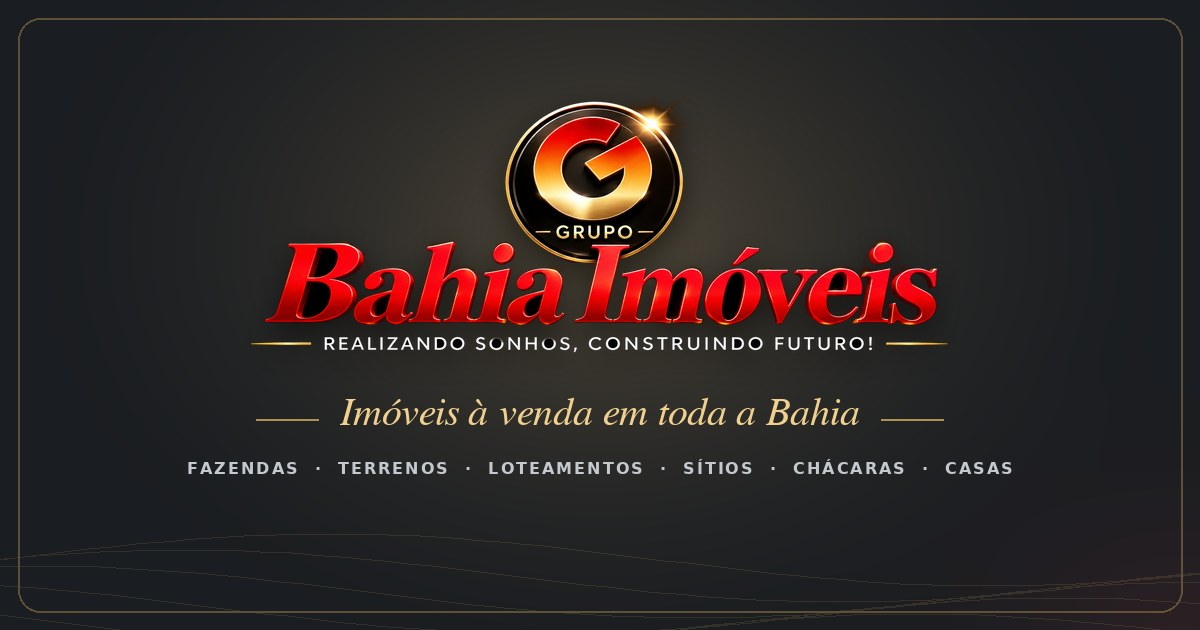
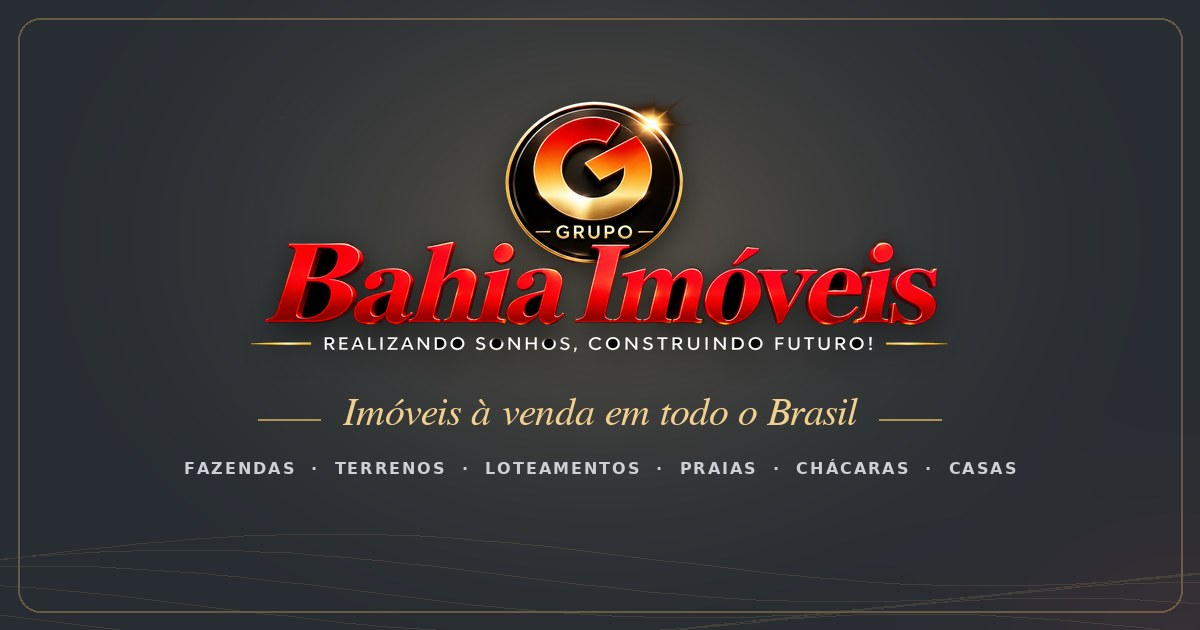
Atuação em todo o Brasil e vídeo de fundo com transições na página inicial
Claude-Session: https://claude.ai/code/session_01B3kjpeu8QtiMqWAzueqwdR

diff --git a/site.js b/site.js
@@ -11,7 +11,7 @@ const CATEGORIAS = [
   {nome:'Loteamento', ico:'lote',    txt:'Lotes em loteamentos com potencial de valorização.'},
   {nome:'Sítio',      ico:'sitio',   txt:'Natureza, tranquilidade e espaço para produzir.'},
   {nome:'Chácara',    ico:'chacara', txt:'Lazer e descanso perto da cidade.'},
-  {nome:'Casa',       ico:'casa',    txt:'Casas para morar ou investir em toda a Bahia.'}
+  {nome:'Casa',       ico:'casa',    txt:'Casas para morar ou investir em todo o Brasil.'}
 ];
 
 /* ===== CATÁLOGO =====
@@ -640,9 +640,62 @@ function montarContato(){
   });
 }
 
+
+/* ===== VÍDEO DE FUNDO DA CAPA (clipes em sequência com transição) ===== */
+function iniciarVideoCapa(){
+  const hero = $('.hero-v'), box = $('.hvid'); if (!box) return;
+  const lista = (CONFIG.capa || []).filter(c => c && c.src); if (!lista.length) return;
+  const reduz = matchMedia('(prefers-reduced-motion: reduce)').matches;
+  const economia = navigator.connection && (navigator.connection.saveData || /2g/.test(navigator.connection.effectiveType || ''));
+  if (reduz || economia) return;
+  const vids = [...box.querySelectorAll('video')];
+  const seg = Math.max(4, +CONFIG.segundosPorClipe || 7) * 1000;
+  const qual = innerWidth < 720 ? '360' : '720';
+  const url = (c, q) => c.src.replace('{q}', q || qual);
+  const ui = $('.hvid-tema b'), dots = $('.hvid-dots');
+  dots.innerHTML = lista.map((c, k) => `<button type="button" aria-label="${esc(c.tema || 'Clipe ' + (k + 1))}" data-k="${k}"><i></i></button>`).join('');
+  let atual = 0, camada = 0, timer = null, falhas = 0, visivel = true, rodando = false;
+  const marcar = k => {
+    if (ui) ui.textContent = lista[k].tema || '';
+    dots.querySelectorAll('button').forEach((b, j) => { b.classList.toggle('on', j === k); b.style.setProperty('--t', seg + 'ms'); });
+  };
+  function carregar(v, k, cb){
+    let tentouBaixa = false;
+    v.onerror = () => {
+      if (!tentouBaixa && qual !== '360' && lista[k].src.includes('{q}')){ tentouBaixa = true; v.src = url(lista[k], '360'); v.load(); return; }
+      falhas++; if (falhas >= lista.length * 2) return parar(); cb(false);
+    };
+    v.oncanplay = () => { v.oncanplay = null; cb(true); };
+    v.src = url(lista[k]); v.load();
+  }
+  function mostrar(k){
+    const v = vids[camada], ant = vids[1 - camada];
+    carregar(v, k, ok => {
+      if (!ok){ atual = (k + 1) % lista.length; return mostrar(atual); }
+      falhas = 0;
+      v.currentTime = 0; const pr = v.play(); if (pr) pr.catch(() => {});
+      v.classList.add('on'); ant.classList.remove('on'); hero.classList.add('vid-on');
+      setTimeout(() => { ant.pause(); }, 1600);
+      marcar(k); atual = k;
+      clearTimeout(timer); timer = setTimeout(proximo, seg);
+    });
+  }
+  function proximo(){ if (!visivel) return; camada = 1 - camada; mostrar((atual + 1) % lista.length); }
+  function parar(){ clearTimeout(timer); vids.forEach(v => { v.pause(); v.removeAttribute('src'); v.load(); }); hero.classList.remove('vid-on'); $('.hvid-ui').hidden = true; }
+  dots.addEventListener('click', e => { const b = e.target.closest('[data-k]'); if (!b) return; clearTimeout(timer); camada = 1 - camada; mostrar(+b.dataset.k); });
+  vids.forEach(v => { v.muted = true; v.loop = true; v.setAttribute('muted', ''); });
+  const retomar = () => { if (!visivel || document.hidden) { clearTimeout(timer); vids.forEach(v => v.pause()); return; }
+    if (!rodando){ rodando = true; return mostrar(0); }
+    const v = vids[camada]; const pr = v.play(); if (pr) pr.catch(() => {}); clearTimeout(timer); timer = setTimeout(proximo, seg); };
+  if ('IntersectionObserver' in window) new IntersectionObserver(es => { visivel = es[0].isIntersecting; retomar(); }, {threshold: .05}).observe(hero);
+  else retomar();
+  document.addEventListener('visibilitychange', retomar);
+}
+
 /* ===== GERAL ===== */
 function iniciar(){
   montarChat(); montarCategorias(); montarBusca(); montarContato();
+  iniciarVideoCapa();
 
   // Cadeado: carrega o painel administrativo só quando for usado
   document.addEventListener('click', e => {
@@ -716,11 +769,11 @@ const I18N = (() => {
     ['Início', 'Home', 'Inicio'], ['Imóveis', 'Properties', 'Inmuebles'], ['Categorias', 'Categories', 'Categorías'],
     ['Como funciona', 'How it works', 'Cómo funciona'], ['A empresa', 'About us', 'La empresa'], ['Dúvidas', 'FAQ', 'Preguntas'],
     ['Contato', 'Contact', 'Contacto'], ['Fale conosco', 'Contact us', 'Contáctenos'],
-    ['Imóveis em toda a Bahia', 'Properties all over Bahia', 'Inmuebles en todo Bahía'],
+    ['Imóveis em todo o Brasil', 'Properties all over Brazil', 'Inmuebles en todo Brasil'],
     ['Realizando sonhos,', 'Making dreams come true,', 'Realizando sueños,'], ['construindo futuro!', 'building the future!', '¡construyendo futuro!'],
     ['Terrenos, loteamentos, fazendas, sítios, chácaras e casas. Encontre o imóvel ideal e fale direto com a nossa equipe.', 'Land, lots, farms, small farms, country houses and homes. Find the ideal property and talk directly to our team.', 'Terrenos, loteos, haciendas, fincas, quintas y casas. Encuentre el inmueble ideal y hable directo con nuestro equipo.'],
     ['Ver imóveis à venda', 'See properties for sale', 'Ver inmuebles en venta'], ['Falar com um especialista', 'Talk to a specialist', 'Hablar con un especialista'],
-    ['Atuação em toda a Bahia', 'Serving all of Bahia', 'Presencia en todo Bahía'], ['Atendimento direto', 'Direct service', 'Atención directa'],
+    ['Atuação em todo o Brasil', 'Serving all of Brazil', 'Presencia en todo Brasil'], ['Atendimento direto', 'Direct service', 'Atención directa'],
     ['Informações claras de cada imóvel', 'Clear information on every property', 'Información clara de cada inmueble'],
     ['Encontre seu imóvel', 'Find your property', 'Encuentre su inmueble'], ['Veja na hora o que está disponível para venda.', 'Instantly see what is available for sale.', 'Vea al instante lo que está disponible para la venta.'],
     ['Tipo de imóvel', 'Property type', 'Tipo de inmueble'], ['Cidade ou região', 'City or region', 'Ciudad o región'], ['Investimento até', 'Budget up to', 'Inversión hasta'],
@@ -740,19 +793,19 @@ const I18N = (() => {
     ['Realize o negócio', 'Close the deal', 'Cierre el negocio'], ['Acompanhamos você até a conclusão, com transparência em cada etapa.', 'We support you until the end, with transparency at every step.', 'Lo acompañamos hasta el final, con transparencia en cada etapa.'],
     ['Sobre nós', 'About us', 'Sobre nosotros'], ['Grupo', 'Grupo', 'Grupo'], ['Bahia Imóveis', 'Bahia Imóveis', 'Bahia Imóveis'],
     ['Realizando sonhos, construindo futuro!', 'Making dreams come true, building the future!', '¡Realizando sueños, construyendo futuro!'],
-    ['Toda a Bahia', 'All of Bahia', 'Todo Bahía'], ['Área de atuação', 'Service area', 'Área de actuación'], ['6 categorias', '6 categories', '6 categorías'],
+    ['Todo o Brasil', 'All of Brazil', 'Todo Brasil'], ['Área de atuação', 'Service area', 'Área de actuación'], ['6 categorias', '6 categories', '6 categorías'],
     ['Rurais e urbanos', 'Rural and urban', 'Rurales y urbanos'], ['Direto', 'Direct', 'Directo'], ['Atendimento no WhatsApp', 'Service via WhatsApp', 'Atención por WhatsApp'],
-    ['Quem somos', 'Who we are', 'Quiénes somos'], ['Oportunidades imobiliárias', 'Real estate opportunities', 'Oportunidades inmobiliarias'], ['em toda a Bahia', 'all over Bahia', 'en todo Bahía'],
-    ['Atuamos com a divulgação de oportunidades imobiliárias em toda a Bahia, conforme a disponibilidade dos imóveis.', 'We showcase real estate opportunities all over Bahia, according to property availability.', 'Divulgamos oportunidades inmobiliarias en todo Bahía, según la disponibilidad de los inmuebles.'],
+    ['Quem somos', 'Who we are', 'Quiénes somos'], ['Oportunidades imobiliárias', 'Real estate opportunities', 'Oportunidades inmobiliarias'], ['em todo o Brasil', 'all over Brazil', 'en todo Brasil'],
+    ['Atuamos com a divulgação de oportunidades imobiliárias em todo o Brasil, conforme a disponibilidade dos imóveis.', 'We showcase real estate opportunities all over Brazil, according to property availability.', 'Divulgamos oportunidades inmobiliarias en todo Brasil, según la disponibilidad de los inmuebles.'],
     ['Imóveis rurais e urbanos: da fazenda produtiva à casa na cidade.', 'Rural and urban properties: from productive farms to homes in the city.', 'Inmuebles rurales y urbanos: de la hacienda productiva a la casa en la ciudad.'],
     ['Informações claras sobre cada propriedade antes da visita.', 'Clear information about each property before the visit.', 'Información clara sobre cada propiedad antes de la visita.'],
     ['Contato direto, sem intermediários desnecessários.', 'Direct contact, no unnecessary middlemen.', 'Contacto directo, sin intermediarios innecesarios.'],
-    ['Entre em contato', 'Get in touch', 'Contáctenos'], ['Para proprietários', 'For owners', 'Para propietarios'], ['Quer vender seu', 'Want to sell your', '¿Quiere vender su'], ['imóvel na Bahia?', 'property in Bahia?', 'inmueble en Bahía?'],
+    ['Entre em contato', 'Get in touch', 'Contáctenos'], ['Para proprietários', 'For owners', 'Para propietarios'], ['Quer vender seu', 'Want to sell your', '¿Quiere vender su'], ['imóvel no Brasil?', 'property in Brazil?', 'inmueble en Brasil?'],
     ['Fale com a gente e divulgue sua propriedade para quem está procurando.', 'Talk to us and show your property to people who are looking.', 'Hable con nosotros y divulgue su propiedad a quien está buscando.'],
     ['Anunciar meu imóvel', 'List my property', 'Anunciar mi inmueble'], ['Dúvidas frequentes', 'Frequently asked questions', 'Preguntas frecuentes'], ['Perguntas', 'Common', 'Preguntas'], ['comuns', 'questions', 'comunes'],
     ['Não encontrou sua resposta? Fale com a gente pelo chat.', "Didn't find your answer? Talk to us on the chat.", '¿No encontró su respuesta? Hable con nosotros por el chat.'],
     ['Em quais regiões vocês atuam?', 'Which regions do you serve?', '¿En qué regiones actúan?'],
-    ['Atuamos com oportunidades em toda a Bahia. Use a busca por cidade ou fale com a gente.', 'We have opportunities all over Bahia. Search by city or talk to us.', 'Tenemos oportunidades en todo Bahía. Busque por ciudad o hable con nosotros.'],
+    ['Atuamos com oportunidades em todo o Brasil. Use a busca por cidade ou fale com a gente.', 'We have opportunities all over Brazil. Search by city or talk to us.', 'Tenemos oportunidades en todo Brasil. Busque por ciudad o hable con nosotros.'],
     ['Quais tipos de imóvel vocês trabalham?', 'What types of property do you work with?', '¿Con qué tipos de inmuebles trabajan?'],
     ['Fazendas, terrenos, loteamentos, sítios, chácaras e casas, além de outros imóveis conforme a disponibilidade.', 'Farms, land, lots, small farms, country houses and homes, plus other properties according to availability.', 'Haciendas, terrenos, loteos, fincas, quintas y casas, además de otros inmuebles según disponibilidad.'],
     ['Como vejo o que está disponível?', 'How do I see what is available?', '¿Cómo veo lo que está disponible?'],
@@ -766,10 +819,10 @@ const I18N = (() => {
     ['Resposta no seu WhatsApp', 'Reply on your WhatsApp', 'Respuesta por WhatsApp'], ['Retornamos pelo número que você informar', 'We reply to the number you provide', 'Respondemos al número que usted indique'],
     ['Envie sua mensagem', 'Send your message', 'Envíe su mensaje'], ['Todos os campos são obrigatórios.', 'All fields are required.', 'Todos los campos son obligatorios.'],
     ['Nome', 'Name', 'Nombre'], ['Mensagem', 'Message', 'Mensaje'], ['Enviar mensagem', 'Send message', 'Enviar mensaje'],
-    ['Procurando um imóvel', 'Looking for a property', '¿Busca un inmueble'], ['na Bahia?', 'in Bahia?', 'en Bahía?'],
+    ['Procurando um imóvel', 'Looking for a property', '¿Busca un inmueble'], ['no Brasil?', 'in Brazil?', 'en Brasil?'],
     ['Conte o que você procura. A nossa equipe responde no seu WhatsApp.', 'Tell us what you are looking for. Our team will reply on your WhatsApp.', 'Cuéntenos lo que busca. Nuestro equipo le responde por WhatsApp.'],
     ['Ver imóveis', 'See properties', 'Ver inmuebles'],
-    ['Realizando sonhos, construindo futuro! Fazendas, terrenos, loteamentos, sítios, chácaras e casas em toda a Bahia.', 'Making dreams come true, building the future! Farms, land, lots, small farms, country houses and homes all over Bahia.', '¡Realizando sueños, construyendo futuro! Haciendas, terrenos, loteos, fincas, quintas y casas en todo Bahía.'],
+    ['Realizando sonhos, construindo futuro! Fazendas, terrenos, loteamentos, sítios, chácaras e casas em todo o Brasil.', 'Making dreams come true, building the future! Farms, land, lots, small farms, country houses and homes all over Brazil.', '¡Realizando sueños, construyendo futuro! Haciendas, terrenos, loteos, fincas, quintas y casas en todo Brasil.'],
     ['Navegação', 'Navigation', 'Navegación'], ['Atendimento', 'Support', 'Atención'],
     ['Grupo Bahia Imóveis. Todos os direitos reservados.', 'Grupo Bahia Imóveis. All rights reserved.', 'Grupo Bahia Imóveis. Todos los derechos reservados.'],
     ['Área restrita', 'Restricted area', 'Área restringida'], ['Grupo Bahia Imóveis — início', 'Grupo Bahia Imóveis — home', 'Grupo Bahia Imóveis — inicio'], ['Abrir menu', 'Open menu', 'Abrir menú'],
@@ -784,7 +837,7 @@ const I18N = (() => {
     ['Lotes em loteamentos com potencial de valorização.', 'Lots in subdivisions with appreciation potential.', 'Lotes en loteos con potencial de valorización.'],
     ['Natureza, tranquilidade e espaço para produzir.', 'Nature, peace and space to produce.', 'Naturaleza, tranquilidad y espacio para producir.'],
     ['Lazer e descanso perto da cidade.', 'Leisure and rest close to the city.', 'Ocio y descanso cerca de la ciudad.'],
-    ['Casas para morar ou investir em toda a Bahia.', 'Homes to live in or invest all over Bahia.', 'Casas para vivir o invertir en todo Bahía.'],
+    ['Casas para morar ou investir em todo o Brasil.', 'Homes to live in or invest all over Brazil.', 'Casas para vivir o invertir en todo Brasil.'],
     // busca e vitrine
     ['Todos os tipos', 'All types', 'Todos los tipos'], ['Sem limite', 'No limit', 'Sin límite'], ['Todos', 'All', 'Todos'],
     ['R$ 100 mil', 'R$ 100 thousand', 'R$ 100 mil'], ['R$ 250 mil', 'R$ 250 thousand', 'R$ 250 mil'], ['R$ 500 mil', 'R$ 500 thousand', 'R$ 500 mil'],
@@ -824,7 +877,7 @@ const I18N = (() => {
     ['Agende sua visita', 'Schedule your visit', 'Agende su visita'],
     ['Fale com a nossa equipe para consultar disponibilidade e combinar os detalhes.', 'Talk to our team to check availability and arrange the details.', 'Hable con nuestro equipo para consultar disponibilidad y combinar los detalles.'],
     ['Agendar pelo chat ↗', 'Schedule via chat ↗', 'Agendar por el chat ↗'], ['Continue explorando', 'Keep exploring', 'Siga explorando'], ['Imóveis similares', 'Similar properties', 'Inmuebles similares'],
-    ['No momento, não há outro imóvel do mesmo tipo no site. Conheça também estas opções na Bahia.', 'There is no other property of the same type right now. See these other options in Bahia.', 'Por ahora no hay otro inmueble del mismo tipo. Conozca también estas opciones en Bahía.'],
+    ['No momento, não há outro imóvel do mesmo tipo no site. Conheça também estas opções no Brasil.', 'There is no other property of the same type right now. See these other options in Brazil.', 'Por ahora no hay otro inmueble del mismo tipo. Conozca también estas opciones en Brasil.'],
     ['Sem mídia', 'No media', 'Sin multimedia'],
     // chat
     ['Atendimento pelo WhatsApp', 'Support via WhatsApp', 'Atención por WhatsApp'], ['Seu WhatsApp', 'Your WhatsApp', 'Su WhatsApp'], ['alterar', 'change', 'cambiar'],
@@ -833,6 +886,7 @@ const I18N = (() => {
     ['Digite seu nome.', 'Please enter your name.', 'Escriba su nombre.'], ['Digite seu WhatsApp com DDD. Ex.: (71) 99999-9999', 'Enter your WhatsApp with area code. E.g.: (71) 99999-9999', 'Escriba su WhatsApp con código de área. Ej.: (71) 99999-9999'],
     ['Digite sua mensagem.', 'Please type your message.', 'Escriba su mensaje.'], ['Não conseguimos enviar agora. Tente novamente em instantes.', "We couldn't send it now. Please try again shortly.", 'No pudimos enviar ahora. Intente de nuevo en unos instantes.'],
     ['Abrimos o WhatsApp com sua mensagem pronta, é só tocar em enviar.', 'We opened WhatsApp with your message ready, just tap send.', 'Abrimos WhatsApp con su mensaje listo, solo toque en enviar.'],
+    ['Praias', 'Beaches', 'Playas'], ['Terrenos com lago', 'Land with lakes', 'Terrenos con lago'], ['Fazendas', 'Farms', 'Haciendas'], ['Litoral', 'Coastline', 'Litoral'], ['Rios e natureza', 'Rivers and nature', 'Ríos y naturaleza'],
     ['Ver as fotos', 'See the photos', 'Ver las fotos'], ['Assistir ao vídeo', 'Watch the video', 'Ver el video'], ['Valor', 'Price', 'Valor'],
     ['Sobre o imóvel', 'About the property', 'Sobre el inmueble'], ['Conheça', 'Discover', 'Conozca'], ['cada detalhe', 'every detail', 'cada detalle'], ['os detalhes', 'the details', 'los detalles'],
     ['Galeria', 'Gallery', 'Galería'], ['Fotos e vídeos', 'Photos and videos', 'Fotos y videos'],

diff --git a/index.html b/index.html
@@ -4,7 +4,7 @@
 <meta charset="utf-8">
 <meta name="viewport" content="width=device-width,initial-scale=1">
 <title>Grupo Bahia Imóveis | Realizando sonhos, construindo futuro!</title>
-<meta name="description" content="Terrenos, loteamentos, fazendas, sítios, chácaras e casas à venda em toda a Bahia.">
+<meta name="description" content="Terrenos, loteamentos, fazendas, sítios, chácaras e casas à venda em todo o Brasil.">
 <meta name="theme-color" content="#282d33">
 <link rel="canonical" href="https://emersonaraujodefreitas.github.io/testeigor/">
 <meta property="og:type" content="website">
@@ -12,12 +12,12 @@
 <meta property="og:locale" content="pt_BR">
 <meta property="og:url" content="https://emersonaraujodefreitas.github.io/testeigor/">
 <meta property="og:title" content="Grupo Bahia Imóveis">
-<meta property="og:description" content="Fazendas, terrenos, loteamentos, sítios, chácaras e casas à venda em toda a Bahia.">
+<meta property="og:description" content="Fazendas, terrenos, loteamentos, sítios, chácaras e casas à venda em todo o Brasil.">
 <meta property="og:image" content="https://emersonaraujodefreitas.github.io/testeigor/og-image.jpg">
 <meta property="og:image:type" content="image/jpeg">
 <meta property="og:image:width" content="1200">
 <meta property="og:image:height" content="630">
-<meta property="og:image:alt" content="Grupo Bahia Imóveis — Imóveis à venda em toda a Bahia">
+<meta property="og:image:alt" content="Grupo Bahia Imóveis — Imóveis à venda em todo o Brasil">
 <meta name="twitter:card" content="summary_large_image">
 <meta name="twitter:image" content="https://emersonaraujodefreitas.github.io/testeigor/og-image.jpg">
 <link rel="icon" type="image/png" sizes="64x64" href="favicon.png">
@@ -61,14 +61,17 @@
 
 <main>
 <div class="tab" data-aba="inicio" data-nome="Início">
-<section class="hero"><svg class="topo" viewBox="0 0 1200 800" preserveAspectRatio="xMidYMid slice" aria-hidden="true"><g fill="none" stroke="#d9ad5f" stroke-width="1" opacity=".35">
+<section class="hero hero-v">
+  <div class="hvid" aria-hidden="true"><video class="on" muted playsinline preload="auto"></video><video muted playsinline preload="none"></video></div>
+  <svg class="topo" viewBox="0 0 1200 800" preserveAspectRatio="xMidYMid slice" aria-hidden="true"><g fill="none" stroke="#d9ad5f" stroke-width="1" opacity=".35">
 <path d="M-50 620 C 200 540, 380 700, 620 600 S 1000 470, 1260 560"/><path d="M-50 560 C 220 470, 400 640, 640 540 S 1010 400, 1260 500"/>
 <path d="M-50 500 C 240 400, 420 580, 660 480 S 1020 330, 1260 440"/><path d="M-50 440 C 260 330, 440 520, 680 420 S 1030 260, 1260 380"/>
 <path d="M-50 380 C 280 260, 460 460, 700 360 S 1040 190, 1260 320"/><path d="M-50 320 C 300 190, 480 400, 720 300 S 1050 120, 1260 260"/>
 <path d="M-50 260 C 320 120, 500 340, 740 240 S 1060 50, 1260 200"/><path d="M-50 200 C 340 50, 520 280, 760 180 S 1070 -20, 1260 140"/></g></svg>
+  <div class="hvid-ui"><div class="wrap"><span class="hvid-tema"><i></i><b></b></span><div class="hvid-dots"></div></div></div>
   <div class="wrap hero-grid">
     <div class="rv">
-      <span class="eyebrow">Imóveis em toda a Bahia</span>
+      <span class="eyebrow">Imóveis em todo o Brasil</span>
       <h1>Realizando sonhos,<br><em class="gold">construindo futuro!</em></h1>
       <p class="lead">Terrenos, loteamentos, fazendas, sítios, chácaras e casas. Encontre o imóvel ideal e fale direto com a nossa equipe.</p>
       <div class="actions">
@@ -76,7 +79,7 @@
         <button class="btn btn-ghost" data-chat="Olá! Gostaria de falar com um especialista.">Falar com um especialista</button>
       </div>
       <div class="trust">
-        <span><svg><use href="#i-pin"/></svg>Atuação em toda a Bahia</span>
+        <span><svg><use href="#i-pin"/></svg>Atuação em todo o Brasil</span>
         <span><svg><use href="#i-chat"/></svg>Atendimento direto</span>
         <span><svg><use href="#i-shield"/></svg>Informações claras de cada imóvel</span>
       </div>
@@ -177,15 +180,15 @@
     <div class="about-card rv">
       <img src="logo-grupo-bahia.png" alt="Logomarca Grupo Bahia Imóveis">
       <div class="stats">
-        <div class="stat"><b>Toda a Bahia</b><span>Área de atuação</span></div>
+        <div class="stat"><b>Todo o Brasil</b><span>Área de atuação</span></div>
         <div class="stat"><b>6 categorias</b><span>Rurais e urbanos</span></div>
         <div class="stat"><b>Direto</b><span>Atendimento no WhatsApp</span></div>
       </div>
     </div>
     <div class="rv">
       <span class="eyebrow">Quem somos</span>
-      <h2>Oportunidades imobiliárias <span class="gold">em toda a Bahia</span></h2>
-      <p>Atuamos com a divulgação de oportunidades imobiliárias em toda a Bahia, conforme a disponibilidade dos imóveis.</p>
+      <h2>Oportunidades imobiliárias <span class="gold">em todo o Brasil</span></h2>
+      <p>Atuamos com a divulgação de oportunidades imobiliárias em todo o Brasil, conforme a disponibilidade dos imóveis.</p>
       <ul class="checks">
         <li><svg><use href="#i-check"/></svg>Imóveis rurais e urbanos: da fazenda produtiva à casa na cidade.</li>
         <li><svg><use href="#i-check"/></svg>Informações claras sobre cada propriedade antes da visita.</li>
@@ -197,10 +200,10 @@
   <div class="cta rv" style="margin-top:90px">
     <div>
       <span class="eyebrow">Para proprietários</span>
-      <h2>Quer vender seu <span class="gold">imóvel na Bahia?</span></h2>
+      <h2>Quer vender seu <span class="gold">imóvel no Brasil?</span></h2>
       <p class="lead">Fale com a gente e divulgue sua propriedade para quem está procurando.</p>
     </div>
-    <div class="actions"><button class="btn btn-gold" data-chat="Olá! Tenho um imóvel na Bahia e gostaria de anunciar com o Grupo Bahia Imóveis.">Anunciar meu imóvel<svg><use href="#i-arrow"/></svg></button></div>
+    <div class="actions"><button class="btn btn-gold" data-chat="Olá! Tenho um imóvel e gostaria de anunciar com o Grupo Bahia Imóveis.">Anunciar meu imóvel<svg><use href="#i-arrow"/></svg></button></div>
   </div>
 </div></section></div>
 <div class="tab" data-aba="duvidas" data-nome="Dúvidas" hidden><section class="page-hero"><svg class="topo" viewBox="0 0 1200 800" preserveAspectRatio="xMidYMid slice" aria-hidden="true"><g fill="none" stroke="#d9ad5f" stroke-width="1" opacity=".35">
@@ -216,7 +219,7 @@
 </section>
 <section class="page"><div class="wrap">
   <div class="faq rv">
-    <details open><summary>Em quais regiões vocês atuam?<i>+</i></summary><p>Atuamos com oportunidades em toda a Bahia. Use a busca por cidade ou fale com a gente.</p></details>
+    <details open><summary>Em quais regiões vocês atuam?<i>+</i></summary><p>Atuamos com oportunidades em todo o Brasil. Use a busca por cidade ou fale com a gente.</p></details>
     <details><summary>Quais tipos de imóvel vocês trabalham?<i>+</i></summary><p>Fazendas, terrenos, loteamentos, sítios, chácaras e casas, além de outros imóveis conforme a disponibilidade.</p></details>
     <details><summary>Como vejo o que está disponível?<i>+</i></summary><p>Clique em uma categoria ou use a busca. Aparecem na hora as opções à venda, com fotos, vídeos e detalhes.</p></details>
     <details><summary>Posso anunciar meu imóvel com vocês?<i>+</i></summary><p>Sim. Mande pelo chat as informações da propriedade e retornamos no seu WhatsApp com os próximos passos.</p></details>
@@ -240,7 +243,7 @@
 <section class="page"><div class="wrap contact">
   <div class="cinfo rv">
     <div><span class="ico"><svg><use href="#i-wa"/></svg></span><span><b>WhatsApp</b><small>(71) 99602-0606</small></span></div>
-    <div><span class="ico"><svg><use href="#i-pin"/></svg></span><span><b>Área de atuação</b><small>Toda a Bahia</small></span></div>
+    <div><span class="ico"><svg><use href="#i-pin"/></svg></span><span><b>Área de atuação</b><small>Todo o Brasil</small></span></div>
     <div><span class="ico"><svg><use href="#i-chat"/></svg></span><span><b>Resposta no seu WhatsApp</b><small>Retornamos pelo número que você informar</small></span></div>
   </div>
   <form class="finder rv" id="contactForm" novalidate>
@@ -263,19 +266,19 @@
 <footer class="foot2">
   <div class="wrap">
     <div class="fcta">
-      <div><span class="eyebrow">Atendimento direto</span><h3>Procurando um imóvel <span class="gold">na Bahia?</span></h3><p>Conte o que você procura. A nossa equipe responde no seu WhatsApp.</p></div>
+      <div><span class="eyebrow">Atendimento direto</span><h3>Procurando um imóvel <span class="gold">no Brasil?</span></h3><p>Conte o que você procura. A nossa equipe responde no seu WhatsApp.</p></div>
       <div class="fcta-b"><a href="#" data-tab="imoveis" class="btn btn-ghost">Ver imóveis</a><button class="btn btn-gold" data-chat=""><svg><use href="#i-chat"/></svg>Fale conosco</button></div>
     </div>
     <div class="fgrid2">
       <div class="fbrand">
         <img src="logo-grupo-bahia.png" alt="Grupo Bahia Imóveis">
-        <p>Realizando sonhos, construindo futuro! Fazendas, terrenos, loteamentos, sítios, chácaras e casas em toda a Bahia.</p>
+        <p>Realizando sonhos, construindo futuro! Fazendas, terrenos, loteamentos, sítios, chácaras e casas em todo o Brasil.</p>
       </div>
       <nav><h4>Navegação</h4><a href="#" data-tab="inicio">Início</a><a href="#" data-tab="imoveis">Imóveis</a><a href="#" data-tab="categorias">Categorias</a><a href="#" data-tab="como-funciona">Como funciona</a><a href="#" data-tab="empresa">A empresa</a><a href="#" data-tab="duvidas">Dúvidas</a><a href="#" data-tab="contato">Contato</a></nav>
       <nav><h4>Categorias</h4><a href="#" data-cat="Fazenda">Fazenda</a><a href="#" data-cat="Terreno">Terreno</a><a href="#" data-cat="Loteamento">Loteamento</a><a href="#" data-cat="Sítio">Sítio</a><a href="#" data-cat="Chácara">Chácara</a><a href="#" data-cat="Casa">Casa</a></nav>
       <div class="fcontato"><h4>Atendimento</h4>
         <button class="fline" data-chat=""><svg><use href="#i-wa"/></svg><span><small>WhatsApp</small>(71) 99602-0606</span></button>
-        <div class="fline"><svg><use href="#i-pin"/></svg><span><small>Área de atuação</small>Toda a Bahia</span></div>
+        <div class="fline"><svg><use href="#i-pin"/></svg><span><small>Área de atuação</small>Todo o Brasil</span></div>
       </div>
     </div>
     <div class="fbase"><span>© <span class="ano"></span> Grupo Bahia Imóveis. Todos os direitos reservados.</span><span class="fslogan">Realizando sonhos, construindo futuro!</span><button type="button" class="restrito" data-adm><svg><use href="#i-lock"/></svg>Área restrita</button></div>

diff --git a/style.css b/style.css
@@ -798,4 +798,29 @@ button.restrito.loading svg{animation:gira .8s linear infinite}
 .top.c3 .lang svg{width:20px;height:14px}
 .top.c3 .wrap.nav{padding-left:16px;padding-right:16px}
 
+/* ===== V16: vídeo de fundo na capa ===== */
+.hvid{position:absolute;inset:0;z-index:-2;overflow:hidden;background:#1d2024}
+.hvid video{position:absolute;inset:0;width:100%;height:100%;object-fit:cover;opacity:0;transform:scale(1.04);transition:opacity 1.5s ease,transform 9s linear}
+.hvid video.on{opacity:1;transform:scale(1)}
+.hvid::after{content:"";position:absolute;inset:0;background:
+  linear-gradient(90deg,#282d33e6 0%,#282d33b3 38%,#282d3340 72%,#282d3326 100%),
+  linear-gradient(180deg,#282d3399 0%,#282d3300 22%,#282d3300 70%,#282d33 100%)}
+.hero-v .topo{transition:opacity 1s}
+.hero-v.vid-on .topo{opacity:0}
+.hero-v.vid-on::before{opacity:0}
+.hero-v::before{transition:opacity 1.2s}
+.hvid-ui{position:absolute;left:0;right:0;bottom:26px;z-index:1;pointer-events:none;opacity:0;transition:opacity .8s}
+.hero-v.vid-on .hvid-ui{opacity:1}
+.hvid-ui .wrap{display:flex;align-items:center;justify-content:space-between;gap:20px}
+.hvid-tema{display:inline-flex;align-items:center;gap:10px;font-size:12px;font-weight:800;letter-spacing:.18em;text-transform:uppercase;color:#f3ede2;text-shadow:0 1px 8px #0009}
+.hvid-tema i{width:8px;height:8px;border-radius:50%;background:#e04b3f;box-shadow:0 0 0 4px #e04b3f33;animation:pulsa2 1.6s ease-in-out infinite}
+@keyframes pulsa2{50%{box-shadow:0 0 0 7px #e04b3f00}}
+.hvid-dots{display:flex;gap:8px;pointer-events:auto}
+.hvid-dots button{width:34px;height:14px;padding:5px 0;border:0;background:none;cursor:pointer}
+.hvid-dots i{display:block;height:3px;border-radius:3px;background:#ffffff40;position:relative;overflow:hidden}
+.hvid-dots button.on i::after{content:"";position:absolute;inset:0;background:var(--gold2);transform-origin:left;animation:barra var(--t,7000ms) linear forwards}
+@keyframes barra{from{transform:scaleX(0)}to{transform:scaleX(1)}}
+@media(max-width:620px){.hvid-ui{bottom:14px}.hvid-dots button{width:22px}.hvid::after{background:linear-gradient(180deg,#282d33b3 0%,#282d3366 40%,#282d33cc 75%,#282d33 100%)}}
+@media (prefers-reduced-motion:reduce){.hvid{display:none}}
+
 @media(max-width:620px){.menu{top:84px}}

diff --git a/config.js b/config.js
@@ -12,5 +12,17 @@ window.CONFIG = {
   //  - a página Imóveis mostra as postagens publicadas no painel.
   // Vazio: o chat abre o WhatsApp com a mensagem pronta e o painel roda em MODO DEMONSTRAÇÃO
   // (tudo fica só no navegador de quem está testando, nada é publicado).
+  // Vídeo de fundo da página inicial: clipes em sequência, com transição suave.
+  // {q} vira 720 no computador e 360 no celular (economiza dados).
+  // Para usar vídeos próprios, envie o .mp4 ao GitHub e troque o src (ex.: 'videos/praia.mp4').
+  capa: [
+    { tema: 'Praias',            src: 'https://assets.mixkit.co/videos/5371/5371-{q}.mp4' },
+    { tema: 'Terrenos com lago', src: 'https://assets.mixkit.co/videos/4998/4998-{q}.mp4' },
+    { tema: 'Fazendas',          src: 'https://assets.mixkit.co/videos/827/827-{q}.mp4' },
+    { tema: 'Litoral',           src: 'https://assets.mixkit.co/videos/42495/42495-{q}.mp4' },
+    { tema: 'Rios e natureza',   src: 'https://assets.mixkit.co/videos/43605/43605-{q}.mp4' }
+  ],
+  segundosPorClipe: 7,
+
   endpoint: 'https://script.google.com/macros/s/AKfycbwDawrS0XPQnthz3p6eI5PQlmp5quznjJ7zv6_n_5meKRBdQxKQ_KiNjslS869i8swd/exec'
 };
